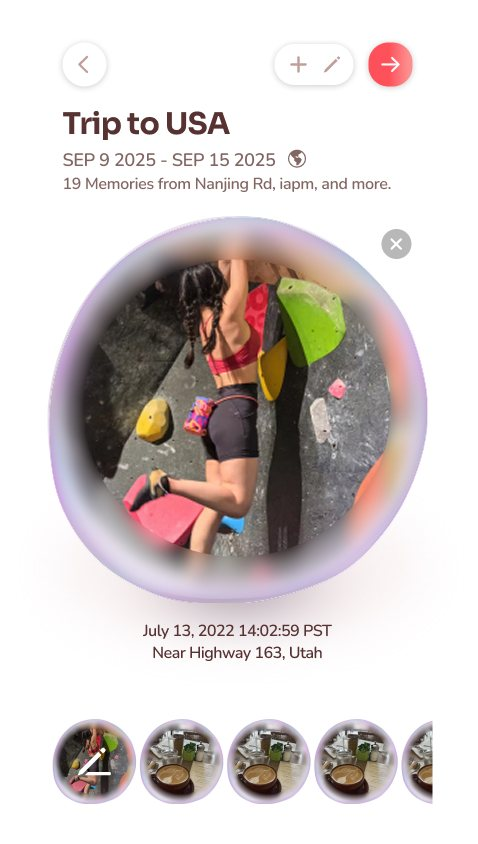
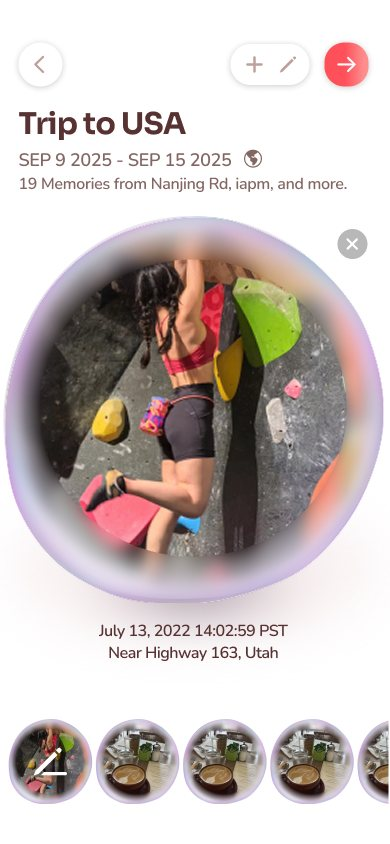
Crop the Name it screen to the same 390×844 as the other screens
Claude-Session: https://claude.ai/code/session_01B8LVDMZBY4vDYC9K8uK7Gb

diff --git a/aako-redesign.html b/aako-redesign.html
@@ -8,7 +8,7 @@
   <link rel="preconnect" href="https://fonts.googleapis.com">
   <link rel="preconnect" href="https://fonts.gstatic.com" crossorigin>
   <link href="https://fonts.googleapis.com/css2?family=DM+Mono:wght@400;500&display=swap" rel="stylesheet">
-  <link rel="stylesheet" href="style.css?v=34">
+  <link rel="stylesheet" href="style.css?v=35">
 </head>
 <body>
   <!-- Images are wireframe placeholders for now. Swap each <div class="placeholder"></div> for an <img>. -->
@@ -302,7 +302,7 @@
                   <figcaption>Choose an event and its moments</figcaption>
                 </figure>
                 <figure class="case-phone">
-                  <img src="images/aako-album-name.jpg" alt="Trip to USA: an album with dates, a cover moment, and its Echoes." loading="lazy">
+                  <img src="images/aako-album-name.jpg?v=2" alt="Trip to USA: an album with dates, a cover moment, and its Echoes." loading="lazy">
                   <figcaption>Name it, set who sees it—an album</figcaption>
                 </figure>
               </div>
@@ -530,6 +530,6 @@
       </div>
     </div>
   </main>
-  <script src="case.js?v=34"></script>
+  <script src="case.js?v=35"></script>
 </body>
 </html>

diff --git a/aako-echo.html b/aako-echo.html
@@ -8,7 +8,7 @@
   <link rel="preconnect" href="https://fonts.googleapis.com">
   <link rel="preconnect" href="https://fonts.gstatic.com" crossorigin>
   <link href="https://fonts.googleapis.com/css2?family=DM+Mono:wght@400;500&display=swap" rel="stylesheet">
-  <link rel="stylesheet" href="style.css?v=34">
+  <link rel="stylesheet" href="style.css?v=35">
 </head>
 <body>
   <!-- Images are wireframe placeholders for now. Swap each <div class="placeholder"></div> for an <img>. -->
@@ -404,6 +404,6 @@
       </div>
     </div>
   </main>
-  <script src="case.js?v=34"></script>
+  <script src="case.js?v=35"></script>
 </body>
 </html>

diff --git a/garden.html b/garden.html
@@ -8,7 +8,7 @@
   <link rel="preconnect" href="https://fonts.googleapis.com">
   <link rel="preconnect" href="https://fonts.gstatic.com" crossorigin>
   <link href="https://fonts.googleapis.com/css2?family=DM+Mono:wght@400;500&display=swap" rel="stylesheet">
-  <link rel="stylesheet" href="style.css?v=34">
+  <link rel="stylesheet" href="style.css?v=35">
 </head>
 <body>
   <!-- Images are wireframe placeholders for now. Swap each <div class="placeholder"></div> for an <img>. -->
@@ -281,6 +281,6 @@
       </div>
     </div>
   </main>
-  <script src="case.js?v=34"></script>
+  <script src="case.js?v=35"></script>
 </body>
 </html>

diff --git a/journey.html b/journey.html
@@ -8,7 +8,7 @@
   <link rel="preconnect" href="https://fonts.googleapis.com">
   <link rel="preconnect" href="https://fonts.gstatic.com" crossorigin>
   <link href="https://fonts.googleapis.com/css2?family=DM+Mono:wght@400;500&display=swap" rel="stylesheet">
-  <link rel="stylesheet" href="style.css?v=34">
+  <link rel="stylesheet" href="style.css?v=35">
 </head>
 <body>
   <!-- Images are wireframe placeholders for now. Swap each <div class="placeholder"></div> for an <img>. -->
@@ -172,6 +172,6 @@
       </div>
     </div>
   </main>
-  <script src="case.js?v=34"></script>
+  <script src="case.js?v=35"></script>
 </body>
 </html>

diff --git a/index.html b/index.html
@@ -8,7 +8,7 @@
   <link rel="preconnect" href="https://fonts.googleapis.com">
   <link rel="preconnect" href="https://fonts.gstatic.com" crossorigin>
   <link href="https://fonts.googleapis.com/css2?family=DM+Mono:wght@400;500&display=swap" rel="stylesheet">
-  <link rel="stylesheet" href="style.css?v=34">
+  <link rel="stylesheet" href="style.css?v=35">
 </head>
 <body>
 
@@ -156,7 +156,7 @@
 
   </aside>
 
-  <script src="projects.js?v=34"></script>
-  <script src="script.js?v=34"></script>
+  <script src="projects.js?v=35"></script>
+  <script src="script.js?v=35"></script>
 </body>
 </html>

diff --git a/project.html b/project.html
@@ -7,7 +7,7 @@
   <link rel="preconnect" href="https://fonts.googleapis.com">
   <link rel="preconnect" href="https://fonts.gstatic.com" crossorigin>
   <link href="https://fonts.googleapis.com/css2?family=DM+Mono:wght@400;500&display=swap" rel="stylesheet">
-  <link rel="stylesheet" href="style.css?v=34">
+  <link rel="stylesheet" href="style.css?v=35">
 </head>
 <body>
   <!-- Template project page: duplicate this file per project (e.g. aako.html) and link it in projects.js -->
